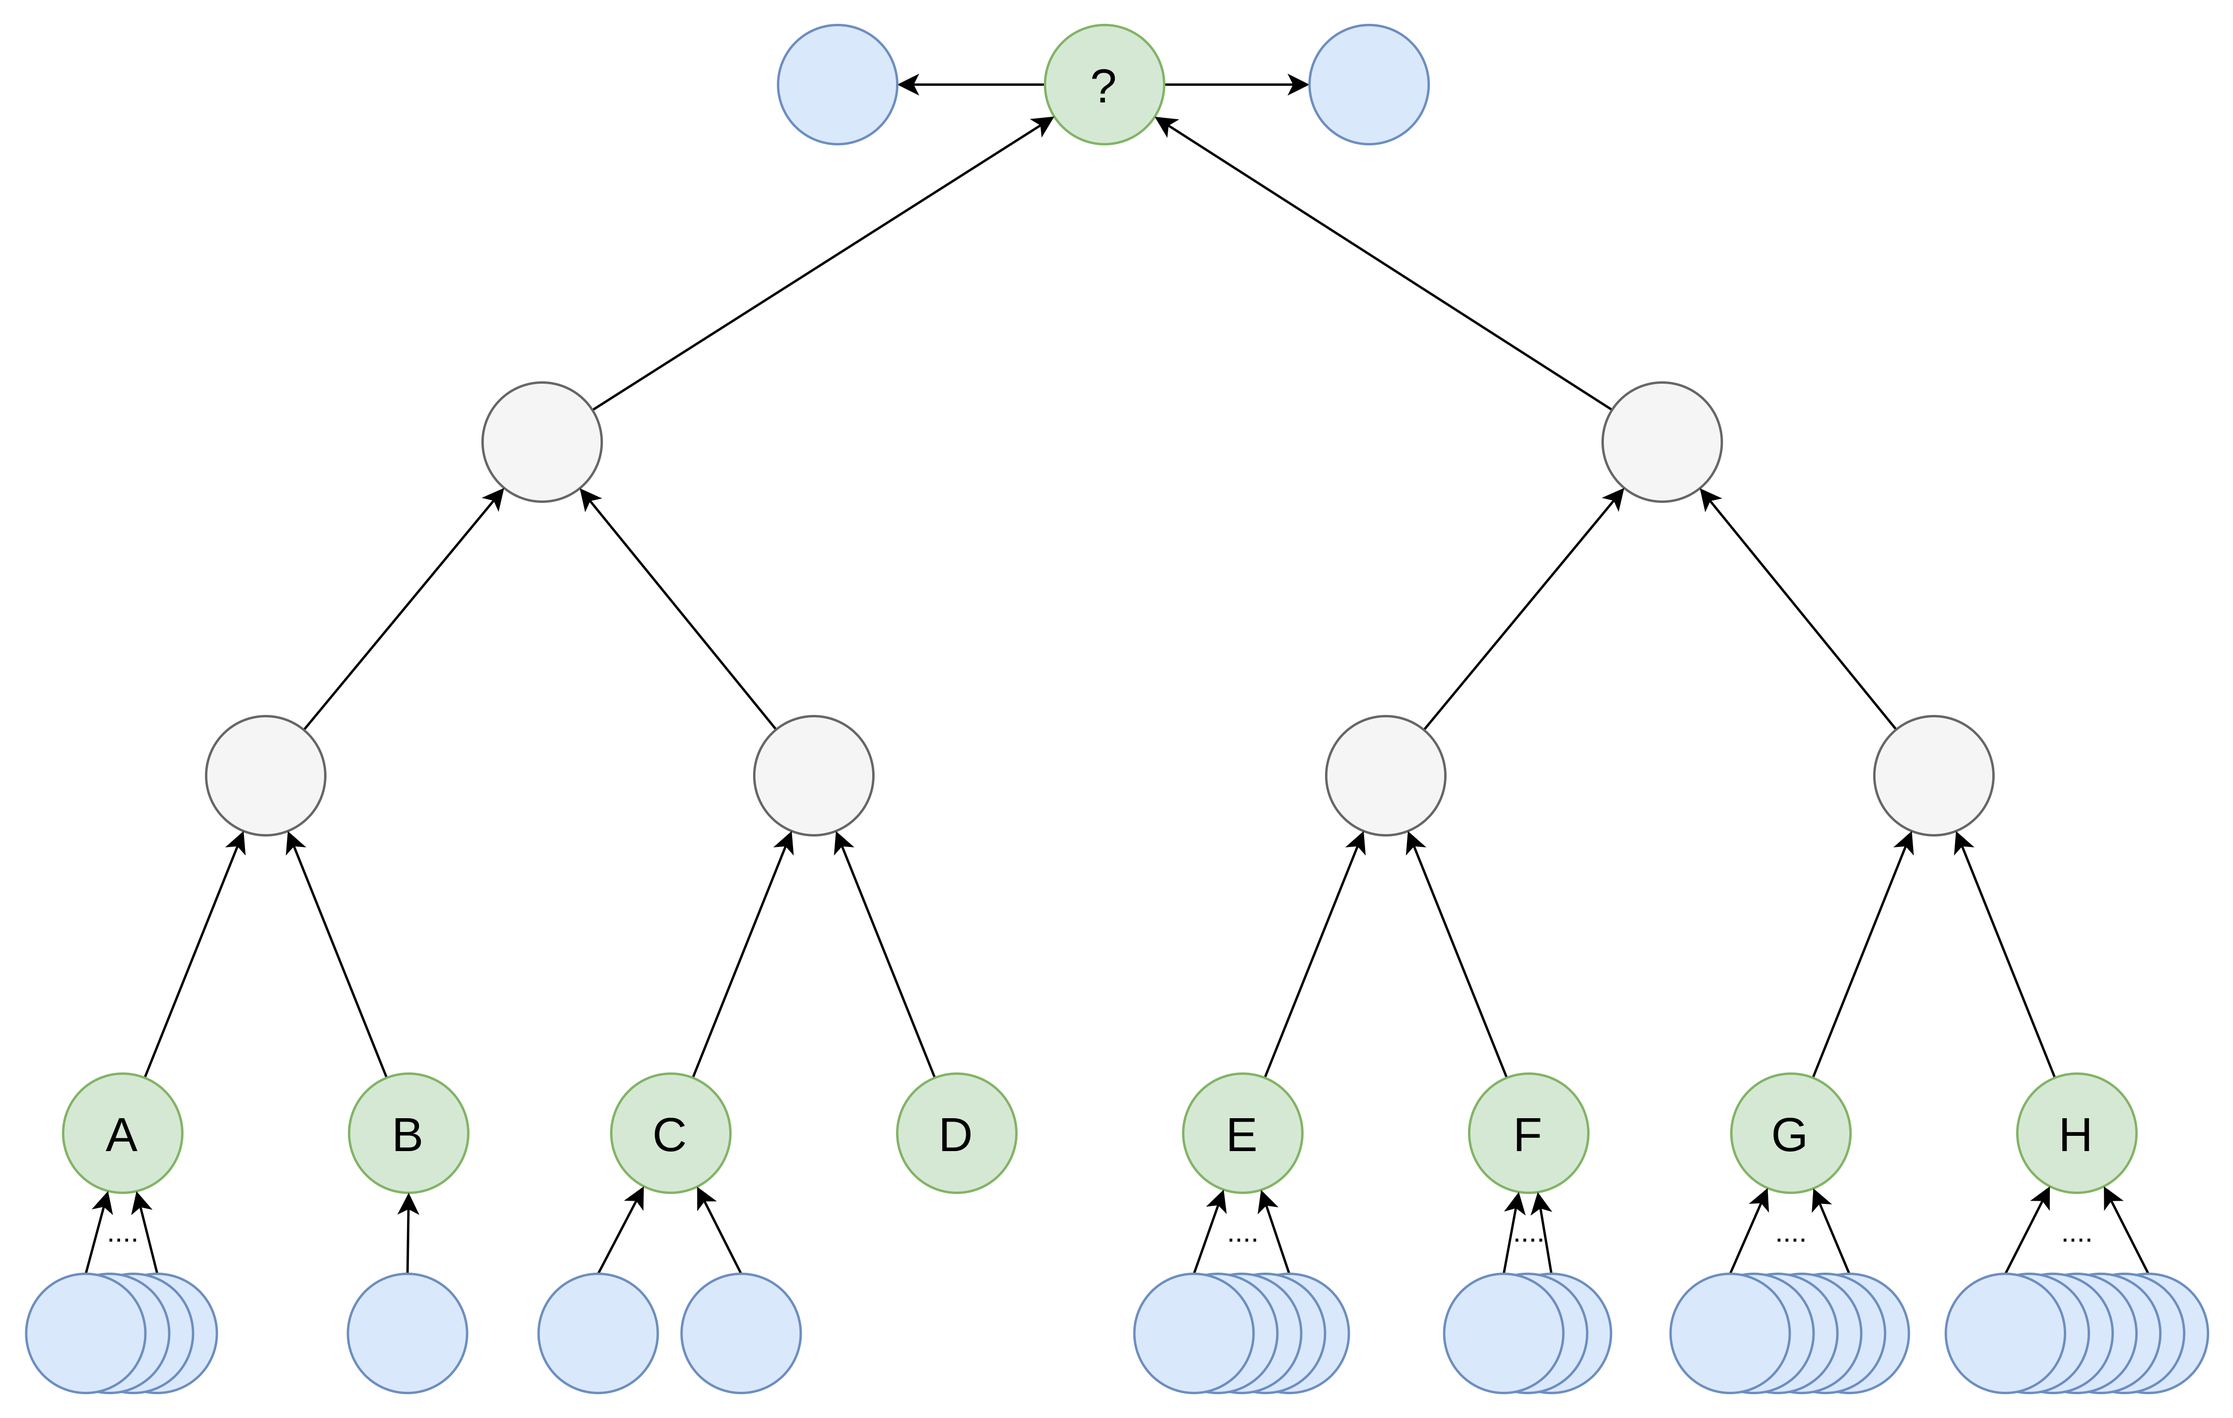
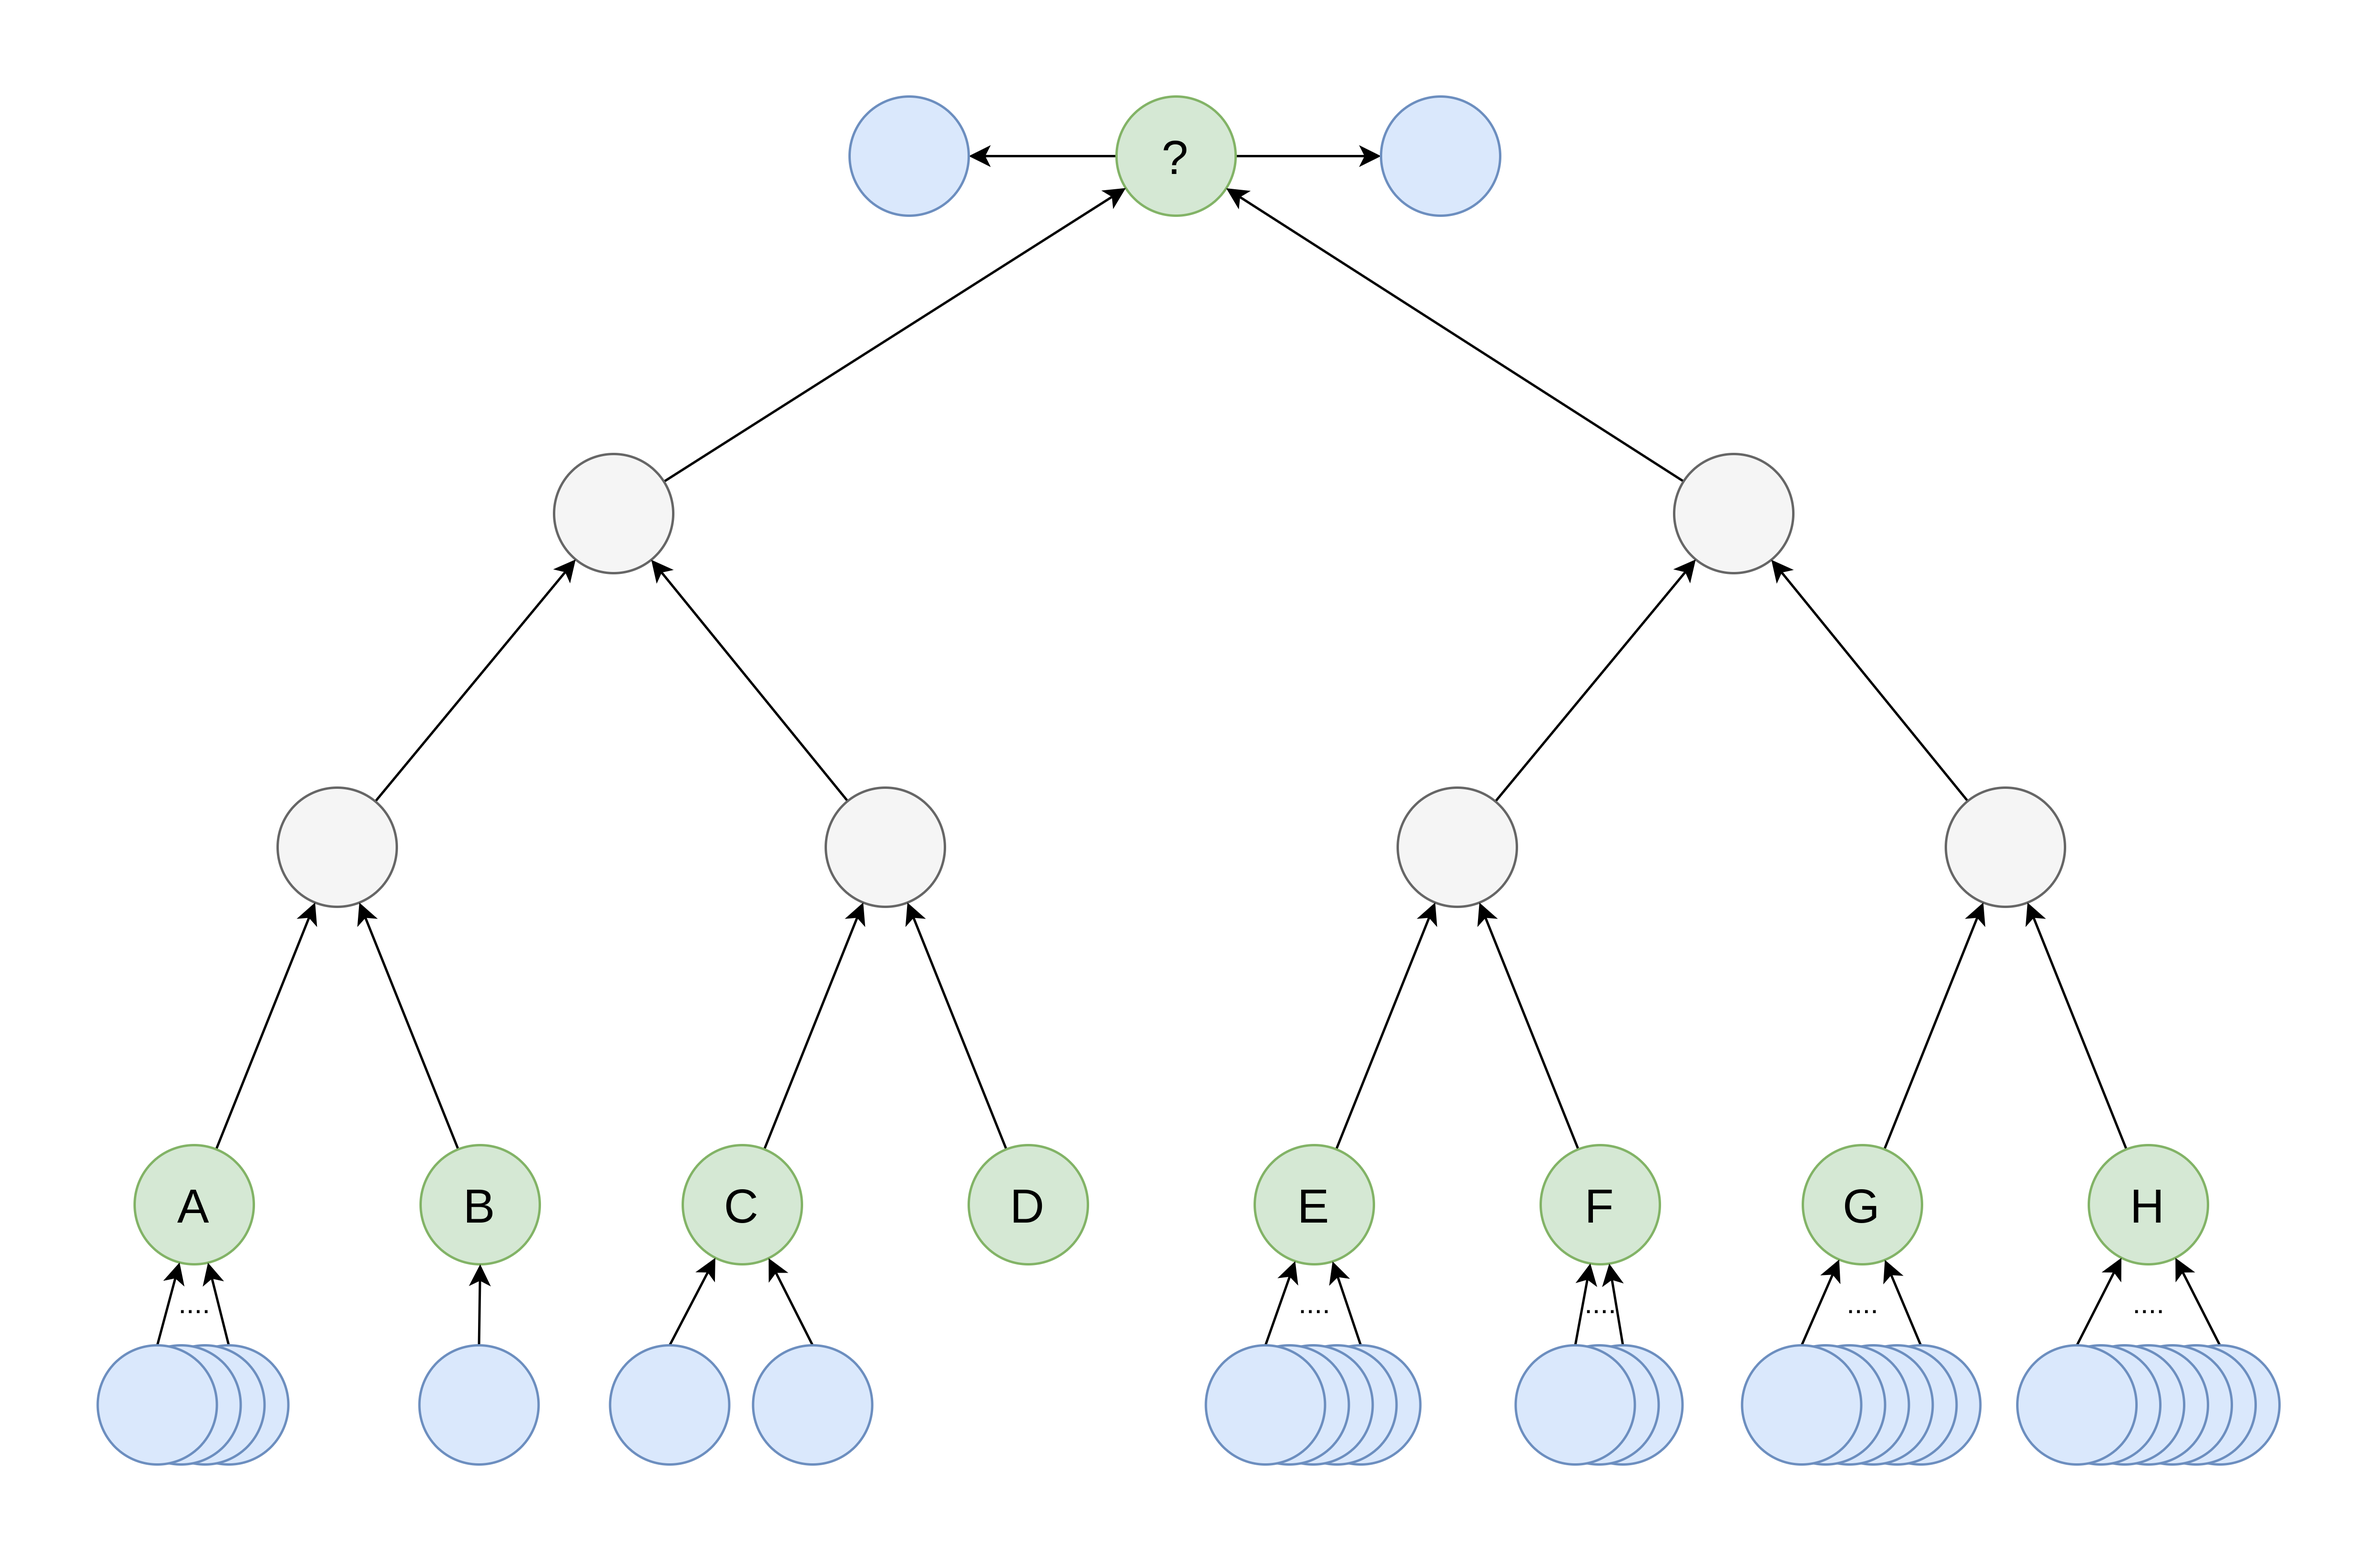
Adjusted README image

diff --git a/README.md b/README.md
@@ -39,7 +39,7 @@ The project addresses the issue of over-squashing in processing large-scale grap
 ## Datasets
 The experiments are conducted on a synthetic dataset called TreeNeighborsMatch. The dataset is generated by creating a binary tree with a given depth. Next, for every leaf node a distinct number of (blue) neighbors is added. Finally, one of the distinct numbers of neighbors is chosen as the target and the same number of (blue) neighbors is added to the root node. The task is to predict the leaf node with the same number of neighbors as the root node.
 
-![TreeNeighborsMatch](img/tree_neighbors_match_example.png)
+<img src="img/tree_neighbors_match_example.png" width=75% alt="TreeNeighborsMatch example">
 
 ## Results
 The raw training results of the experiments can be found in the `results` folder. For a detailed analysis of the results, please refer to the seminar paper in the file `seminar-paper.pdf`. 
